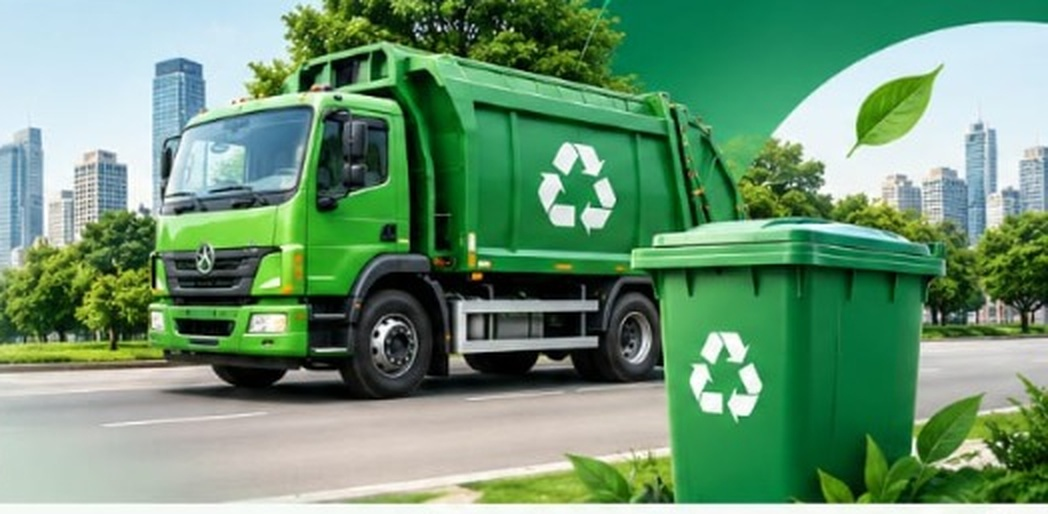
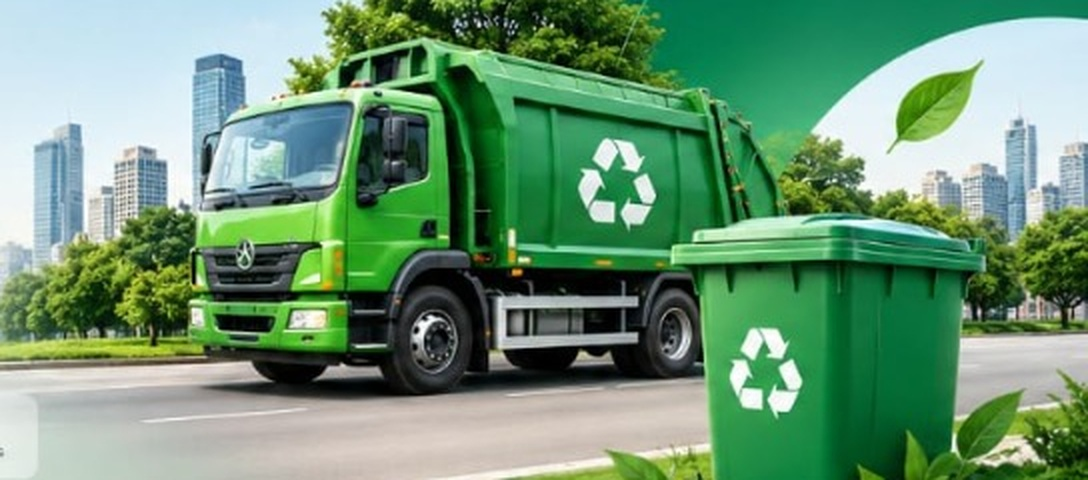
Fix hero layout and truck image: remove mock navbar artifact, balanced full-height truck and recycling station, and full-width stats row

diff --git a/frontend/css/styles.css b/frontend/css/styles.css
@@ -124,13 +124,14 @@ ul,ol{list-style:none;}
 .site-hero{
   background:#fff;overflow:hidden;
   position:relative;
+  padding:1rem 0 2.5rem;
 }
 .hero-content{
-  display:grid;grid-template-columns:1.05fr 0.95fr;
+  display:grid;grid-template-columns:1.1fr 0.9fr;
   align-items:center;
   max-width:1200px;margin:0 auto;
-  padding:2.5rem 1.5rem;
-  gap:1.5rem;min-height:500px;
+  padding:1.5rem 1.5rem 2rem;
+  gap:2.5rem;
 }
 .hero-left{
   display:flex;flex-direction:column;justify-content:center;
@@ -141,7 +142,7 @@ ul,ol{list-style:none;}
   position:relative;width:100%;
 }
 .hero-truck-img{
-  width:100%;height:auto;max-height:480px;
+  width:100%;height:auto;max-height:380px;
   object-fit:contain;object-position:right center;display:block;
 }
 .hero-eyebrow{
@@ -161,7 +162,7 @@ ul,ol{list-style:none;}
   font-size:1rem;color:var(--muted);max-width:500px;
   line-height:1.65;margin-bottom:2rem;
 }
-.hero-cta{display:flex;gap:1rem;align-items:center;flex-wrap:wrap;margin-bottom:2rem;}
+.hero-cta{display:flex;gap:1rem;align-items:center;flex-wrap:wrap;}
 .btn-hero-report{
   background:var(--green);color:#fff;
   padding:.85rem 1.85rem;border-radius:9999px;
@@ -194,30 +195,30 @@ ul,ol{list-style:none;}
 }
 
 .hero-stats{
-  display:grid;grid-template-columns:repeat(4,1fr);gap:.65rem;
-  padding-top:1.5rem;border-top:1px solid var(--border);
-  margin-top:auto;
+  display:grid;grid-template-columns:repeat(4,1fr);gap:1rem;
+  padding-top:1.75rem;border-top:1px solid var(--border);
+  max-width:1200px;margin:0 auto;
 }
 .hero-stat-card{
   background:#ffffff;
   border:1px solid var(--border);
-  border-radius:var(--radius);padding:.7rem .8rem;
+  border-radius:var(--radius);padding:.9rem 1.1rem;
   box-shadow:var(--shadow);
-  display:flex;align-items:center;gap:.6rem;
+  display:flex;align-items:center;gap:.85rem;
 }
 .stat-icon-wrap{
-  width:32px;height:32px;border-radius:50%;
+  width:36px;height:36px;border-radius:50%;
   background:var(--green-light);color:var(--green);
   display:flex;align-items:center;justify-content:center;
-  font-size:.95rem;font-weight:700;flex-shrink:0;
+  font-size:1rem;font-weight:700;flex-shrink:0;
 }
 .stat-body strong{
-  display:block;font-size:1.15rem;font-weight:800;color:var(--green-dark);
+  display:block;font-size:1.2rem;font-weight:800;color:var(--green-dark);
   line-height:1.1;
 }
 .stat-body span{
-  font-size:.72rem;color:var(--muted);font-weight:500;white-space:nowrap;
-  display:block;margin-top:.15rem;
+  font-size:.75rem;color:var(--muted);font-weight:500;white-space:nowrap;
+  display:block;margin-top:.2rem;
 }
 
 /* ============================================================
@@ -729,8 +730,11 @@ dialog::backdrop{background:rgba(7,59,42,0.4);}
   .nav-links .btn-register-nav{display:block;text-align:center;margin-top:.5rem;}
   #mobileMenuToggle{display:flex;}
   /* Hero */
-  .hero-container{min-height:auto;padding:2.5rem 1rem;}
-  .hero-bg-art{opacity:0.25;width:100%;}
+  .hero-content{grid-template-columns:1fr;gap:2rem;text-align:center;padding:1.5rem 1rem;}
+  .hero-eyebrow{align-self:center;}
+  .hero-subtitle{margin:0 auto 2rem;}
+  .hero-right{justify-content:center;}
+  .hero-truck-img{max-height:260px;object-position:center;}
   .hero-left{text-align:center;max-width:100%;}
   .hero-title{font-size:1.75rem;}
   .hero-cta{justify-content:center;}
@@ -758,6 +762,7 @@ dialog::backdrop{background:rgba(7,59,42,0.4);}
   .dialog-actions{flex-direction:column;}
 }
 @media(max-width:480px){
+  .hero-stats{grid-template-columns:1fr;}
   .stats-row-grid{grid-template-columns:1fr;}
   .stats-grid{grid-template-columns:1fr;}
   .hero-title{font-size:1.5rem;}

diff --git a/frontend/index.html b/frontend/index.html
@@ -52,39 +52,9 @@
           <svg viewBox="0 0 24 24" width="18" height="18" fill="none" stroke="currentColor" stroke-width="2" aria-hidden="true"><path d="M3 6h18M19 6v14a2 2 0 01-2 2H7a2 2 0 01-2-2V6m3 0V4a2 2 0 012-2h4a2 2 0 012 2v2M10 11v6M14 11v6"/></svg>
           Report Waste &rarr;
         </a>
-        <a href="about.html" class="btn-hero-learn">
+        <a href="#how-it-works" class="btn-hero-learn">
           Learn More <span class="btn-play-circle">&#9654;</span>
         </a>
-      </div>
-      <div class="hero-stats">
-        <div class="hero-stat-card">
-          <span class="stat-icon-wrap" aria-hidden="true">&#9851;</span>
-          <div class="stat-body">
-            <strong id="statTotalReports">1,250+</strong>
-            <span>Waste Reports</span>
-          </div>
-        </div>
-        <div class="hero-stat-card">
-          <span class="stat-icon-wrap" aria-hidden="true">&#10003;</span>
-          <div class="stat-body">
-            <strong id="statCompleted">980+</strong>
-            <span>Collections</span>
-          </div>
-        </div>
-        <div class="hero-stat-card">
-          <span class="stat-icon-wrap" aria-hidden="true">&#128101;</span>
-          <div class="stat-body">
-            <strong id="statActiveUsers">120+</strong>
-            <span>Active Users</span>
-          </div>
-        </div>
-        <div class="hero-stat-card">
-          <span class="stat-icon-wrap" aria-hidden="true">&#127807;</span>
-          <div class="stat-body">
-            <strong id="statCommunities">25+</strong>
-            <span>Communities</span>
-          </div>
-        </div>
       </div>
     </div>
     <div class="hero-right" aria-hidden="true">
@@ -95,7 +65,41 @@
       />
     </div>
   </div>
-  <p id="homeMessage" role="alert" hidden style="position:relative;z-index:2;width:min(1180px,calc(100% - 2rem));margin:0 auto;padding:.85rem 1rem;border-radius:12px;"></p>
+
+  <div class="container">
+    <div class="hero-stats">
+      <div class="hero-stat-card">
+        <span class="stat-icon-wrap" aria-hidden="true">&#9851;</span>
+        <div class="stat-body">
+          <strong id="statTotalReports">1,250+</strong>
+          <span>Waste Reports</span>
+        </div>
+      </div>
+      <div class="hero-stat-card">
+        <span class="stat-icon-wrap" aria-hidden="true">&#10003;</span>
+        <div class="stat-body">
+          <strong id="statCompleted">980+</strong>
+          <span>Collections</span>
+        </div>
+      </div>
+      <div class="hero-stat-card">
+        <span class="stat-icon-wrap" aria-hidden="true">&#128101;</span>
+        <div class="stat-body">
+          <strong id="statActiveUsers">120+</strong>
+          <span>Active Users</span>
+        </div>
+      </div>
+      <div class="hero-stat-card">
+        <span class="stat-icon-wrap" aria-hidden="true">&#127807;</span>
+        <div class="stat-body">
+          <strong id="statCommunities">25+</strong>
+          <span>Communities</span>
+        </div>
+      </div>
+    </div>
+  </div>
+
+  <p id="homeMessage" role="alert" hidden style="position:relative;z-index:2;width:min(1180px,calc(100% - 2rem));margin:1rem auto 0;padding:.85rem 1rem;border-radius:12px;"></p>
 </section>
 
 <!-- ══════════════════════════════════════════════════════════
